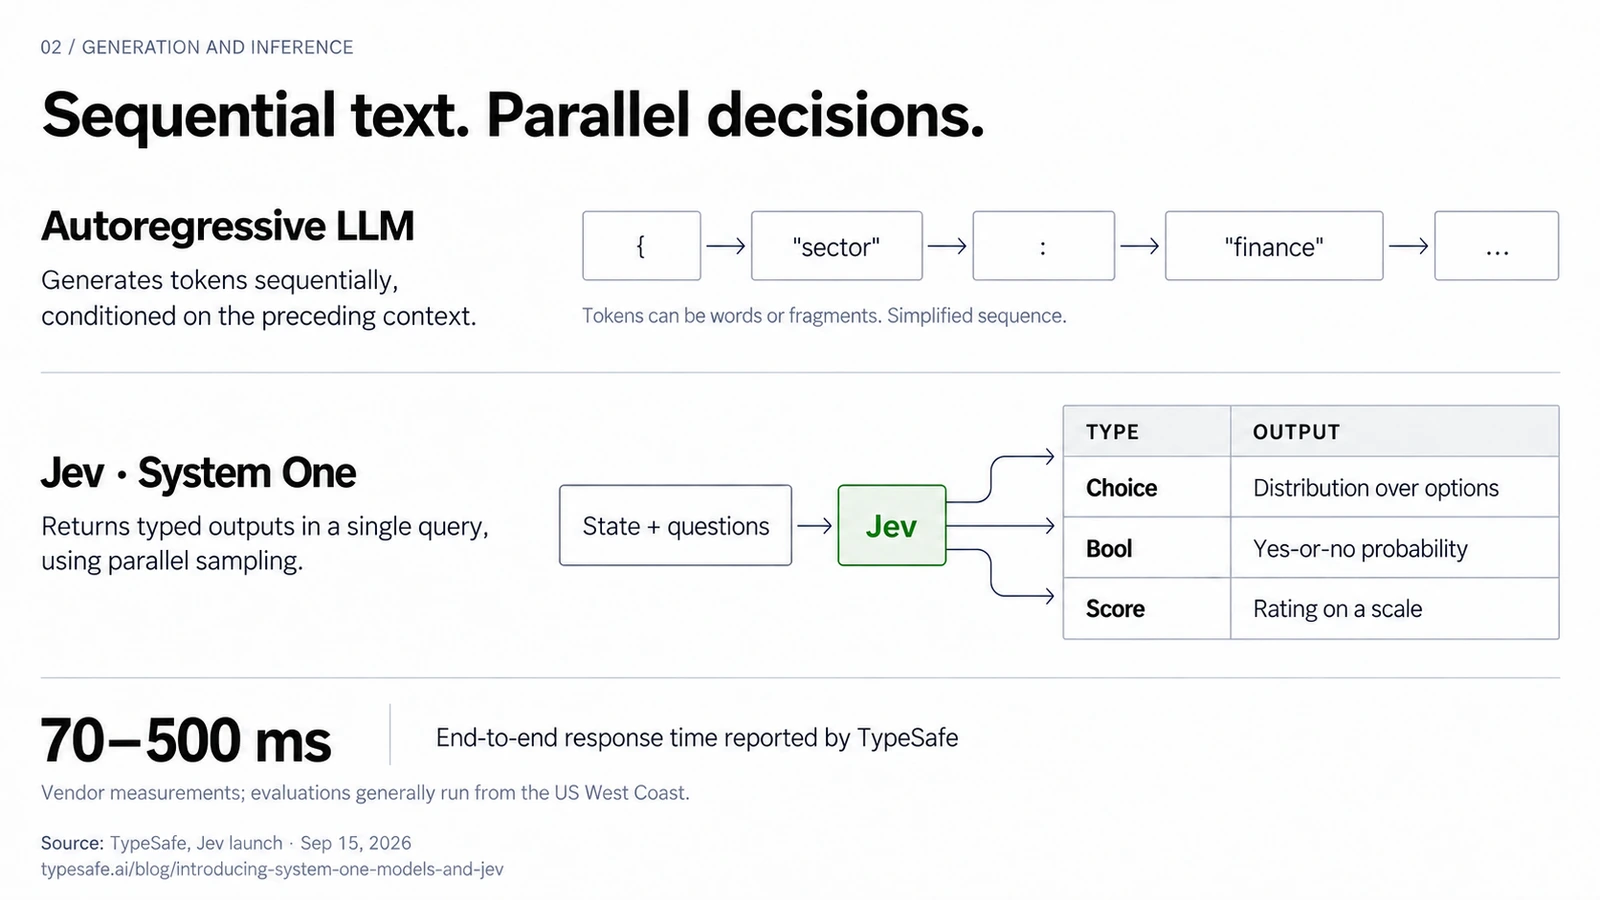
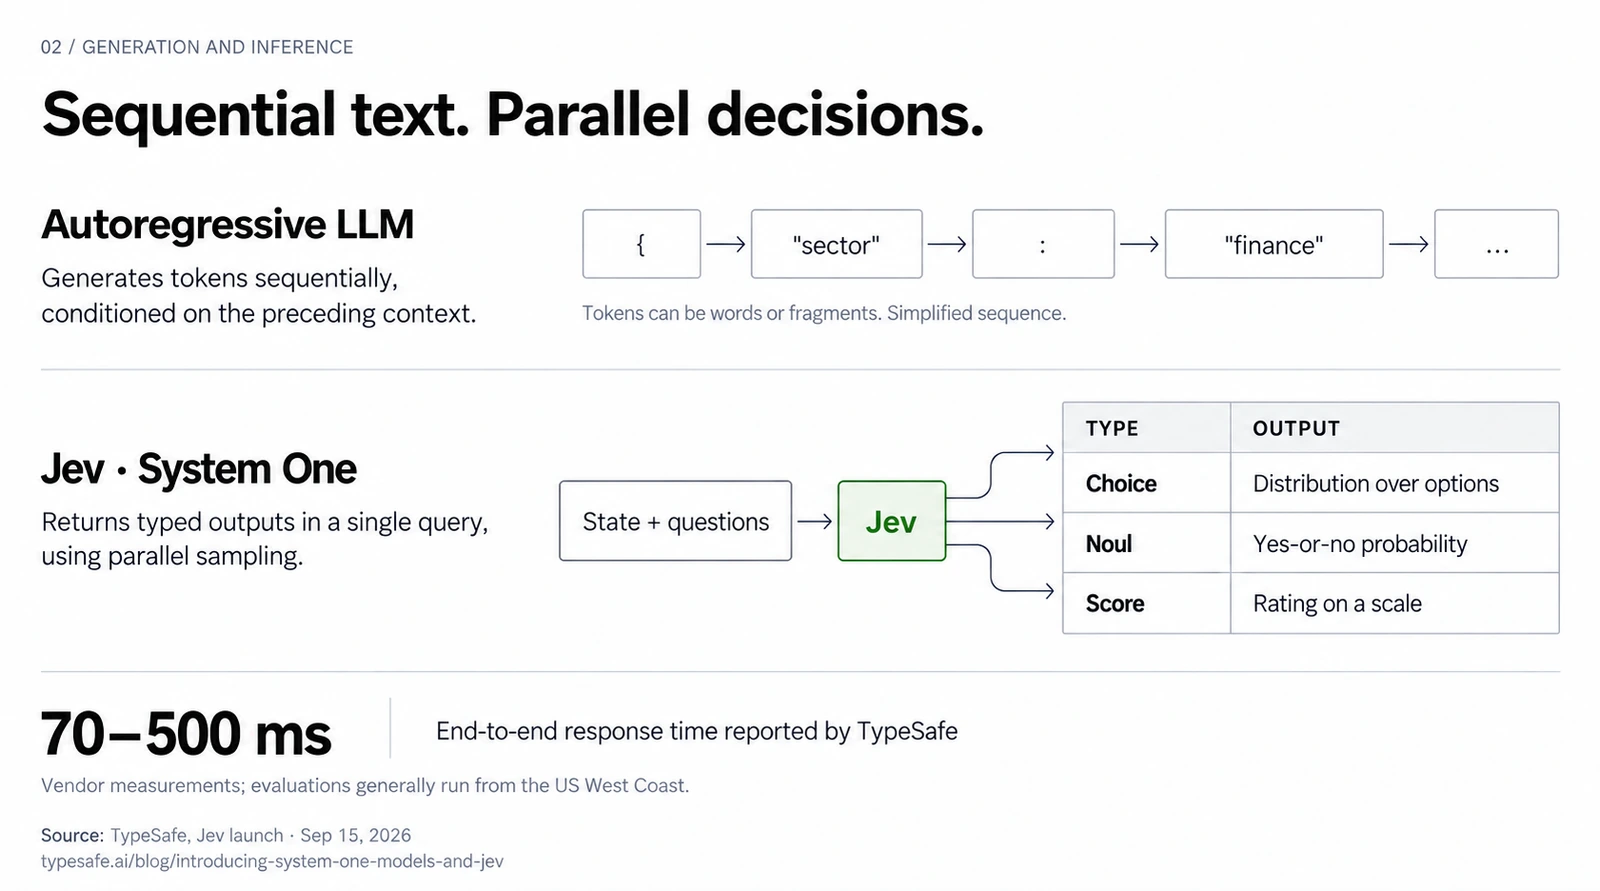
fix(blog): volta o primitivo para Noul na slide 02
A versao anterior da slide chamava o terceiro primitivo de Bool,
enquanto o texto do artigo e a documentacao da TypeSafe usam Noul.
A slide nova corrige isso.

Essa imagem nao e 16:9 como as outras duas, entao o height dela volta
para 446 enquanto as demais seguem em 450.

diff --git a/src/data/blog/2026/whoisjev.md b/src/data/blog/2026/whoisjev.md
@@ -55,7 +55,7 @@ That's it. There's no "write the reply to the customer", no "explain your reason
 
 Here's the part that makes engineers raise an eyebrow. Autoregressive LLMs generate output token by token, with each new token conditioned on the input and the tokens already generated. A token can be a word, part of a word, or punctuation. Jev instead evaluates a predefined answer space and returns typed results through parallel sampling. It doesn't have to generate a text response one token at a time.
 
-<img width="800" height="450" alt="Comparison between generating tokens in sequence and typed outputs returned in parallel" src="/assets/jev-geracao-vs-decisao.webp" />
+<img width="800" height="446" alt="Comparison between generating tokens in sequence and typed outputs returned in parallel" src="/assets/jev-geracao-vs-decisao.webp" />
 
 At launch, [TypeSafe reported](https://typesafe.ai/blog/introducing-system-one-models-and-jev) 70 to 500 milliseconds end to end and a price of $0.042 per million input tokens, with no output-token charge. Those latency figures are vendor measurements, generally taken from the US West Coast, rather than a guarantee for your deployment. The output still exists; it just isn't billed as generated text.
 
